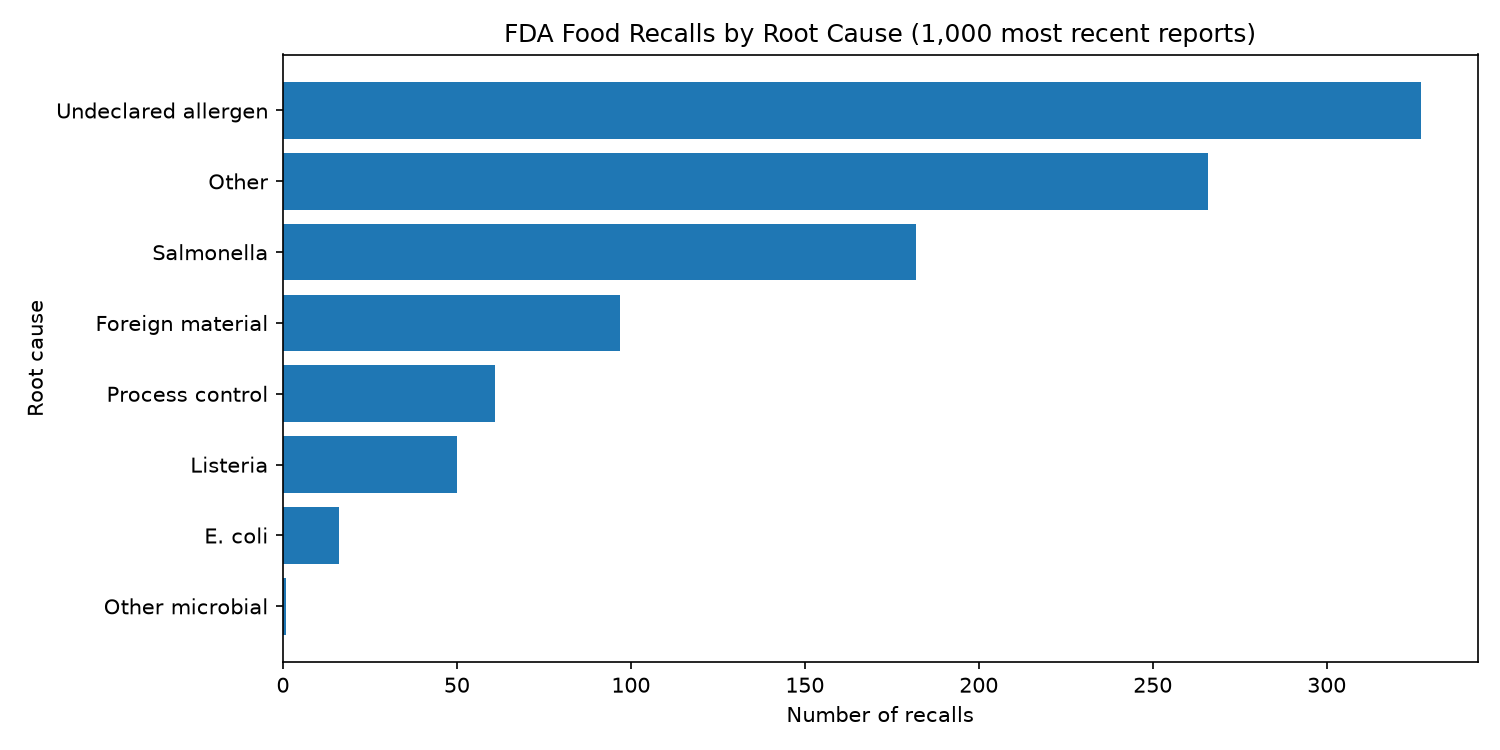
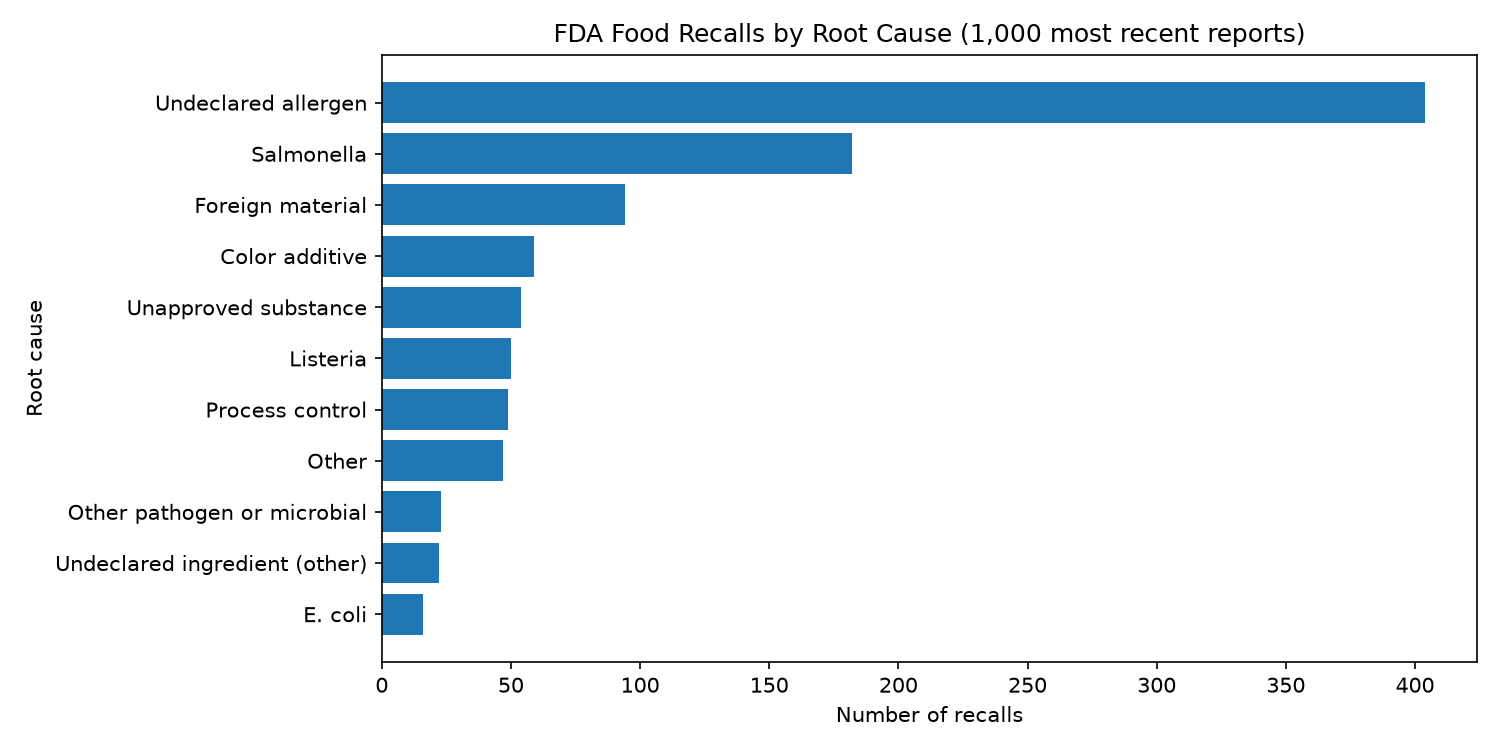
Applied: refine recall cause rules after reviewing first results (separate allergens from color additives, add new categories)

diff --git a/src/nlp/recall_rules.py b/src/nlp/recall_rules.py
@@ -7,14 +7,19 @@ Purpose
 
   Group free-text FDA recall reasons into a small set of
   root-cause categories that a food manufacturing or quality team
-  would recognize (pathogens, allergen labeling, foreign material,
-  process control), and define extra stop words for recall text.
+  would recognize (pathogens, allergen labeling, other labeling,
+  unapproved substances, foreign material, process control),
+  and define extra stop words for recall text.
 
 Notes:
   - Rules are checked in order and the first match wins.
-    Some reasons mention more than one hazard
-    (for example "E. coli and/or Salmonella"); they are counted
-    once, under the first matching category.
+    More serious causes are checked first, so a reason that mentions
+    both an allergen and a color additive is counted as an allergen.
+  - Version 2 (after the first run): allergens are matched by the
+    major food allergens instead of the word "undeclared", so
+    undeclared color additives and sulfites are no longer counted
+    as allergens. Added categories for unapproved substances,
+    color additives, and other undeclared ingredients.
   - Keyword rules are simple and transparent on purpose,
     so every result can be traced back to a rule.
 """
@@ -51,12 +56,35 @@ RECALL_STOP_WORDS: frozenset[str] = frozenset(
     }
 )
 
+# Major food allergens (U.S.) plus common specific foods in recall text.
+ALLERGEN_PATTERN: str = (
+    r"allergen|\bmilk\b|\beggs?\b|peanut|tree nut|almond|walnut|cashew|"
+    r"pecan|pistachio|hazelnut|macadamia|coconut|\bwheat\b|\bsoy|sesame|"
+    r"\bfish\b|shellfish|shrimp|\bcrab\b|lobster|anchov|\bsalmon\b|"
+    r"\btuna\b|pollock|\bcod\b"
+)
+
 # Ordered (category, pattern) rules. First match wins.
 CAUSE_RULES: list[tuple[str, re.Pattern[str]]] = [
+    # Pathogens (most often Class I).
     ("Listeria", re.compile(r"listeria")),
     ("Salmonella", re.compile(r"salmonella")),
     ("E. coli", re.compile(r"\be\.?\s?coli\b")),
-    ("Undeclared allergen", re.compile(r"undeclared|allergen")),
+    # Labeling.
+    ("Undeclared allergen", re.compile(ALLERGEN_PATTERN)),
+    (
+        "Unapproved substance",
+        re.compile(
+            r"unapproved|banned|sildenafil|tadalafil|cyclamate|\blead\b|"
+            r"pesticide|heavy metal|arsenic|cadmium|mercury"
+        ),
+    ),
+    (
+        "Color additive",
+        re.compile(r"\byellow\b|\bred\b|\bblue\b|colou?r|fd&c|tartrazine"),
+    ),
+    ("Undeclared ingredient (other)", re.compile(r"undeclared|sulfite|declar")),
+    # Physical and process.
     (
         "Foreign material",
         re.compile(r"foreign|metal|plastic|glass|rubber|wood|stone"),
@@ -65,12 +93,15 @@ CAUSE_RULES: list[tuple[str, re.Pattern[str]]] = [
         "Process control",
         re.compile(
             r"botulinum|under[- ]?process|temperature|pasteuri|seal|"
-            r"process(?:ing)? deviation|haccp|gmp"
+            r"process(?:ing)? deviation|haccp|gmp|insanitary|sanitation"
         ),
     ),
     (
-        "Other microbial",
-        re.compile(r"mold|yeast|cronobacter|bacillus|staph|clostridium|bacteria"),
+        "Other pathogen or microbial",
+        re.compile(
+            r"cyclospora|hepatitis|norovirus|vibrio|cronobacter|bacillus|"
+            r"staph|clostridium|mold|yeast|bacteri"
+        ),
     ),
 ]
 

diff --git a/tests/test_recall_rules.py b/tests/test_recall_rules.py
@@ -32,6 +32,31 @@ def test_undeclared_allergen() -> None:
     assert categorize_reason(reason) == "Undeclared allergen"
 
 
+def test_allergen_wins_over_color() -> None:
+    reason = "Contains undeclared milk and FD&C Yellow No. 5"
+    assert categorize_reason(reason) == "Undeclared allergen"
+
+
+def test_color_additive_is_not_an_allergen() -> None:
+    reason = "Product contains undeclared FD&C Yellow No. 5"
+    assert categorize_reason(reason) == "Color additive"
+
+
+def test_salmonella_is_not_salmon() -> None:
+    reason = "Possible Salmonella contamination of smoked salmon"
+    assert categorize_reason(reason) == "Salmonella"
+
+
+def test_undeclared_other_ingredient() -> None:
+    reason = "Product contains undeclared sulfites"
+    assert categorize_reason(reason) == "Undeclared ingredient (other)"
+
+
+def test_unapproved_substance() -> None:
+    reason = "Product contains undeclared sildenafil"
+    assert categorize_reason(reason) == "Unapproved substance"
+
+
 def test_foreign_material() -> None:
     reason = "Pieces of metal found in the product"
     assert categorize_reason(reason) == "Foreign material"
@@ -40,6 +65,11 @@ def test_foreign_material() -> None:
 def test_process_control() -> None:
     reason = "Under-processing may allow growth of Clostridium botulinum"
     assert categorize_reason(reason) == "Process control"
+
+
+def test_other_pathogen() -> None:
+    reason = "Potential contamination with Cyclospora"
+    assert categorize_reason(reason) == "Other pathogen or microbial"
 
 
 def test_other() -> None:

diff --git a/src/nlp/fda_recalls.py b/src/nlp/fda_recalls.py
@@ -2,6 +2,7 @@
 
 Author: Abdelhafidh Mahouel
 Date: 2026-11
+Modified: 2026-11 (v2 rules: allergens vs color additives, more categories)
 
 Purpose
 
@@ -41,7 +42,7 @@ import polars as pl
 import requests
 from wordcloud import WordCloud
 
-from nlp.recall_rules import RECALL_STOP_WORDS, categorize_reason
+from nlp.recall_rules import OTHER_CATEGORY, RECALL_STOP_WORDS, categorize_reason
 from nlp.text_cleaning import DEFAULT_STOP_WORDS, clean_tokens
 
 print("Imports complete.")
@@ -125,6 +126,14 @@ cause_df: pl.DataFrame = df.group_by("cause").len().sort("len", descending=True)
 
 print("Recalls by root cause:")
 print(cause_df)
+
+# Inspect what the rules still miss, so the rules can be improved.
+other_reasons: list[str] = (
+    df.filter(pl.col("cause") == OTHER_CATEGORY)["reason"].head(15).to_list()
+)
+print(f"Sample of reasons still labeled '{OTHER_CATEGORY}':")
+for reason in other_reasons:
+    print(f"- {reason[:150]}")
 
 
 # ============================================================
